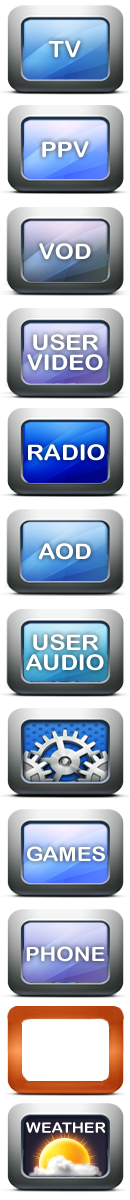
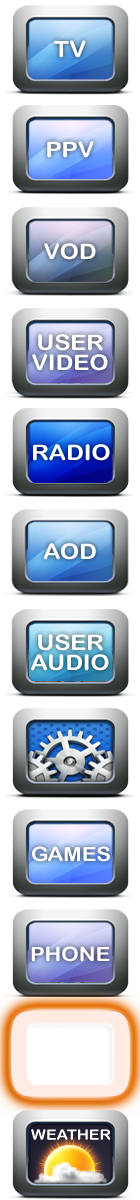
Change the appearence of screen selector Fix weather screen for 640

diff --git a/app/css/appselector3.css b/app/css/appselector3.css
@@ -17,7 +17,7 @@
 }
 .screenChooser .screen.iptv {
 	background-image: url('app/imgs/icon_set.png');
-	background-position: right -3px;
+	background-position: right -4px;
 	background-repeat: no-repeat;
 }
 .screenChooser .screen.ppv {
@@ -42,7 +42,7 @@
 }
 .screenChooser .screen.aod {
 	background-image: url('app/imgs/icon_set.png');
-	background-position: right -506px;
+	background-position: right -507px;
 	background-repeat: no-repeat;
 }
 .screenChooser .screen.uaudio {
@@ -52,7 +52,7 @@
 }
 .screenChooser .screen.settings {
 	background-image: url('app/imgs/icon_set.png');
-	background-position: right -706px;
+	background-position: right -707px;
 	background-repeat: no-repeat;
 
 }
@@ -66,15 +66,20 @@
 	background-position: right -908px;
 	background-repeat: no-repeat;
 }
+.screenChooser .screen.weather {
+	background-image: url('app/imgs/icon_set.png');
+	background-position: right -1110px;
+	background-repeat: no-repeat;
+}
 
 .screen-selector-pointer {
-	background-image: url('app/imgs/icon_set.png');
-	background-position: left -1005px;
-	background-repeat: no-repeat;
-	width: 130px;
-	height: 90px;
-	position: fixed;
-	top: 238px;
-	right: 15px;
-	z-index: 2000;
+    background-image: url("app/imgs/icon_set.png");
+    background-position: left -997px;
+    background-repeat: no-repeat;
+    height: 113px;
+    position: fixed;
+    right: 12px;
+    top: 167px;
+    width: 143px;
+    z-index: 2000;
 }

diff --git a/app/css/weather.css b/app/css/weather.css
@@ -10,7 +10,7 @@
 .weatherScreen {
 	padding: 50px 0 20px 20px;
 	color: white;
-	width: 935px;
+	width: 625px;
 	overflow-x: auto;
 	overflow-y: hidden;
 }
